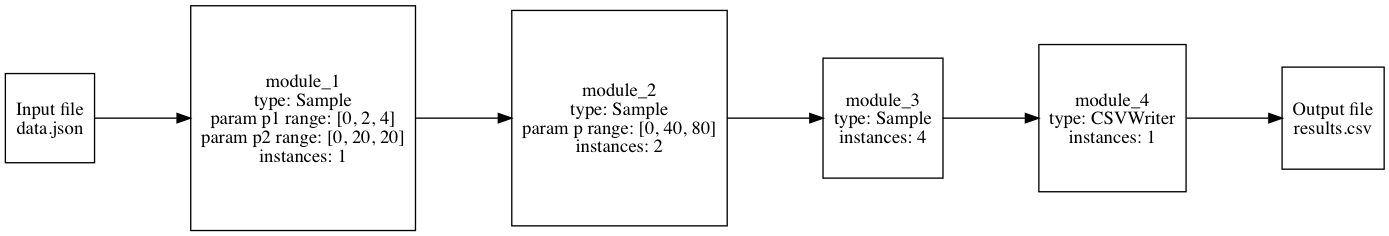
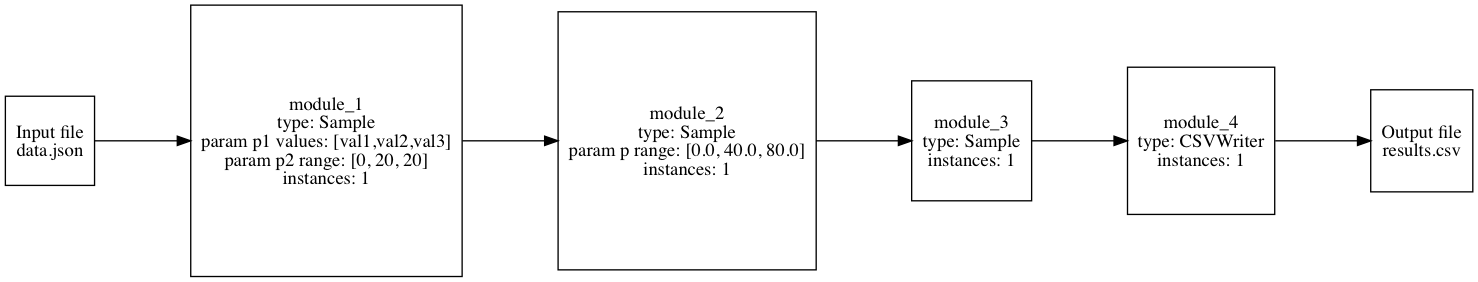
Updated toy example.

diff --git a/example/toy/extra_modules.py b/example/toy/extra_modules.py
@@ -1,0 +1,15 @@
+import glog as log
+from src.modules import Module
+
+class Sample(Module):
+
+    def __init__(self, module_id, name, rabbitmq_host, pipeline_conf, module_conf, **kwargs):
+        super().__init__(module_id, name, rabbitmq_host, pipeline_conf, module_conf, **kwargs)
+
+    def process(self, job, data):
+
+        log.debug(job)
+        data['string_list'] = [x + ' processed by ' + self.name + ', params ' + str(job.params) for x in data['string_list']]
+        log.debug(data)
+
+        return data
